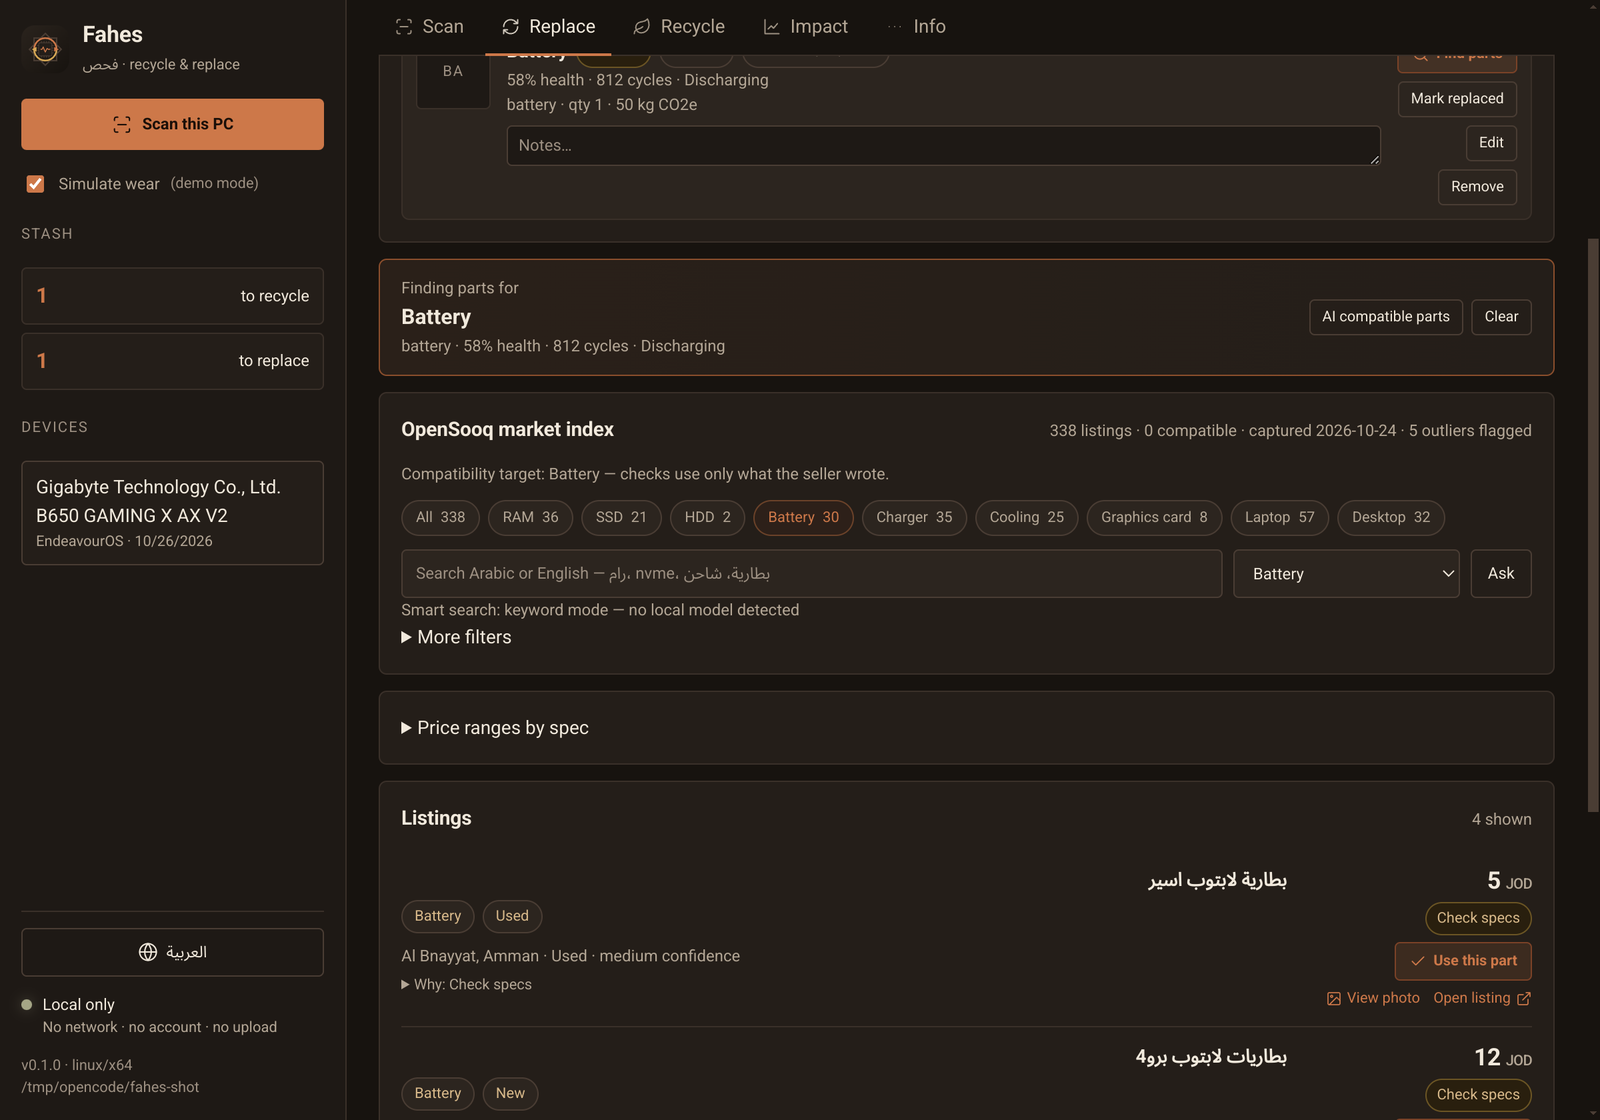
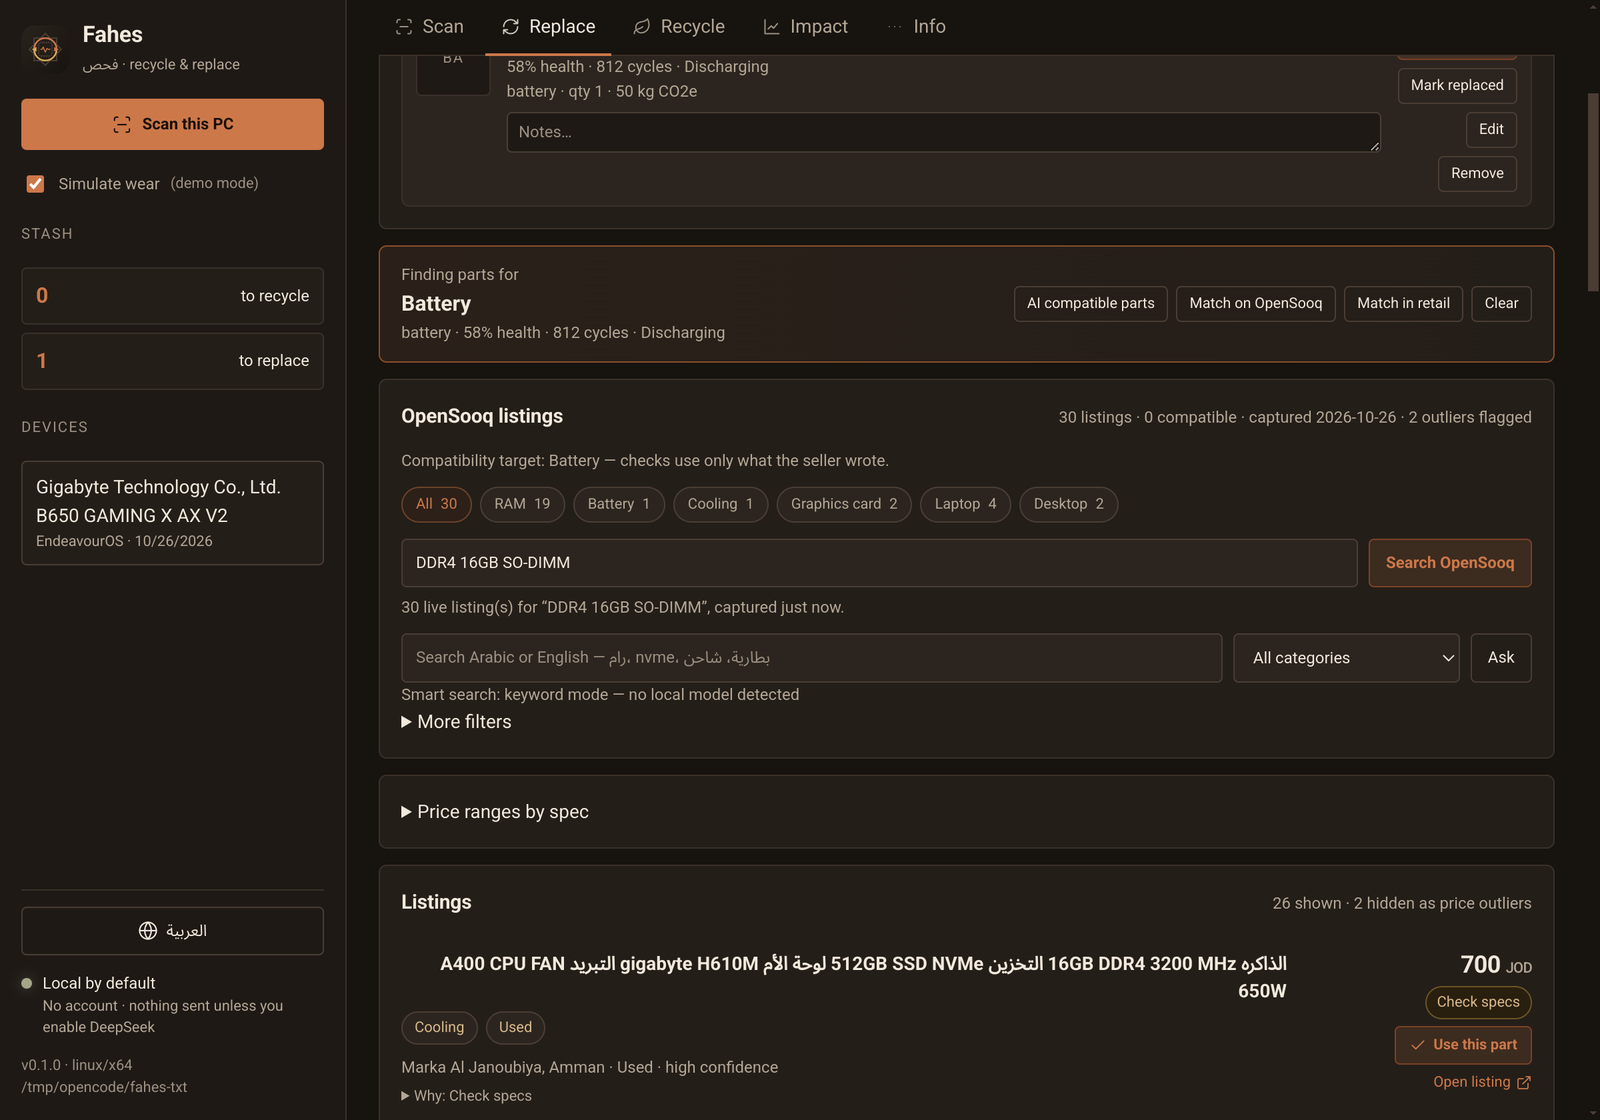
Docs and copy cleanup; reset filters on a live query
README: drop the Known limits section, condense the DeepSeek section,
and correct the parts that were stale now that Replace is live —
'338 real OpenSooq listings' read as a fixed set, and the privacy line
claimed nothing leaves the machine unconditionally.

UI copy: the Replace intro and the market card no longer describe a
fixed local index; both locales updated.

Live query now clears the previous search, category, condition and price
filters. A leftover category filter hid every result and made the search
look broken (searching 'DDR4 16GB SO-DIMM' with 'Battery' still selected
showed 0 of 30 listings).

Refreshed docs/replace-market.png.

diff --git a/ui/i18n.js b/ui/i18n.js
@@ -106,7 +106,7 @@
       "scan.manual": "Stash something manually",
       "scan.manualTitle": "What is it? e.g. old router, laptop battery",
       "replace.stash": "Replacement stash",
-      "replace.intro": "Everything you plan to replace. Pick an item, then let Fahes find compatible parts from the local OpenSooq index. AI only fills search filters; compatibility stays deterministic.",
+      "replace.intro": "Everything you plan to replace. Pick an item, then search OpenSooq live for the part you want, or browse the bundled index offline. Compatibility stays deterministic.",
       "replace.manualTitle": "Add a part or device to replace",
       "replace.add": "Add",
       "recycle.stash": "Recycle stash",
@@ -185,7 +185,7 @@
       "spec.none": "none reported",
       "spec.nothing": "Nothing to report.",
 
-      "market.title": "OpenSooq market index",
+      "market.title": "OpenSooq listings",
       "market.meta": "{count} listings · {compat} compatible · captured {date} · {outliers} outliers flagged",
       "market.compatTarget": "Compatibility target: {target} — checks use only what the seller wrote.",
       "market.noDevice": "No device selected; compatibility checks are unavailable until you run a check.",
@@ -477,7 +477,7 @@
       "scan.manual": "أضف عنصراً يدوياً",
       "scan.manualTitle": "ما هو؟ مثال: راوتر قديم، بطارية لابتوب",
       "replace.stash": "سلة الاستبدال",
-      "replace.intro": "كل ما تخطط لاستبداله. اختر عنصراً ودع فحص يجد القطع المتوافقة من فهرس السوق المحلي. الذكاء الاصطناعي يملأ المرشحات فقط، والتوافق يبقى محسوباً بشكل حتمي.",
+      "replace.intro": "كل ما تخطط لاستبداله. اختر عنصراً ثم ابحث في OpenSooq مباشرة عن القطعة، أو تصفّح الفهرس المخزّن دون اتصال. التوافق يبقى محسوباً بشكل حتمي.",
       "replace.manualTitle": "أضف قطعة أو جهازاً للاستبدال",
       "replace.add": "أضف",
       "recycle.stash": "سلة إعادة التدوير",
@@ -556,7 +556,7 @@
       "spec.none": "لا توجد",
       "spec.nothing": "لا شيء للإبلاغ.",
 
-      "market.title": "مؤشر سوق OpenSooq",
+      "market.title": "إعلانات OpenSooq",
       "market.meta": "{count} إعلاناً · {compat} متوافق · أُخذت في {date} · {outliers} مستبعدة كشواذ",
       "market.compatTarget": "هدف التوافق: {target} — الفحص يعتمد فقط على ما كتبه البائع.",
       "market.noDevice": "لا يوجد جهاز محدد؛ فحص التوافق يحتاج إلى تشغيل فحص أولاً.",

diff --git a/ui/app.js b/ui/app.js
@@ -887,6 +887,23 @@ async function runLiveQuery() {
   btn.disabled = true;
   btn.textContent = t("market.querying");
   if (note) note.textContent = "";
+
+  // A new live query is a new intent, so stale filters from the previous view
+  // are cleared. Otherwise a leftover category filter hides every result and
+  // the search looks broken.
+  const reset = [
+    ["#mSearch", ""],
+    ["#mCategory", "all"],
+    ["#mCondition", "all"],
+    ["#mMax", ""],
+  ];
+  for (const [sel, value] of reset) {
+    const el = $(sel);
+    if (el) el.value = value;
+  }
+  state.aiFilters = null;
+  state.aiEngine = null;
+
   try {
     const res = await call(api.searchMarket(term, marketTarget()));
     state.market = res.market;

diff --git a/README.md b/README.md
@@ -3,14 +3,15 @@
 **A Jordanian replace-and-recycle app for laptops, desktops and the devices around them.**
 
 Scan this PC, its removable drives, USB peripherals or the local network, then file each item under **Recycle** or
-**Replace**. Replacements are matched against real OpenSooq listings and Jordanian prices in JOD; recyclables become a
-photo-backed PDF manifest for a verified Amman e-waste partner.
+**Replace**. Replacements are searched live on OpenSooq and priced in JOD; recyclables become a photo-backed PDF
+manifest for a verified Amman e-waste partner.
 
 Built for the Jordanian market: local prices, local classifieds, local recyclers, Arabic RTL UI.
 
 > Scan it. Stash it. Replace what is worth keeping, recycle what is not.
 
-No account, no server, no upload — everything stays on the machine it runs on.
+No account and no server. Everything stays on the machine it runs on unless you switch on the optional DeepSeek
+matching described below.
 
 ![Scan and stash](docs/scan-stash.png)
 
@@ -39,8 +40,8 @@ reliability counters and thermal zones.
 | | |
 |---|---|
 | **Scan** | local hardware (battery, disks, SMART, RAM, thermals), removable/USB devices, private-LAN sweep |
-| **Replace** | compatible parts from 338 real OpenSooq listings, with city, price and compatibility badges |
-| **Recycle** | per-item photos, verified recycler, PDF handover manifest with mass/material estimates |
+| **Replace** | live OpenSooq search plus a bundled offline index, with city, price and compatibility badges |
+| **Recycle** | per-item photos and specs, verified recycler, PDF handover manifest |
 | **Impact** | diverted kilograms, avoided CO₂e and recovered materials per stash |
 | **Arabic** | full RTL layout, Arabic market parsing and search |
 | **Local AI** | optional Ollama model turns a sentence into filters — never into prices, specs or health scores |
@@ -50,23 +51,32 @@ reliability counters and thermal zones.
 ![Recycle stash and manifest](docs/recycle-stash.png)
 
 Add a photo to each item, pick a recycler, generate the manifest, then **Email recycler** opens your mail app with a
-ready message. The manifest includes a data-destruction warning and the exact wipe command for each detected drive
+ready message. Every item carries a weight, dimensions and recoverable materials, and the manifest prints them per
+item. It also includes a data-destruction warning and the exact wipe command for each detected drive
 (`nvme sanitize`, `hdparm security-erase`, `shred`).
 
 ### Replace
 
 ![Replacement target and market](docs/replace-market.png)
 
-Search in Arabic or English, filter by category, condition and price, and hide incompatible parts. Compatibility is
-derived from the detected machine (DDR generation, SO-DIMM/DIMM, NVMe/SATA) and is conservative: known mismatch is
-flagged, missing data says *check* rather than guessing.
+Type a part and search OpenSooq live — the query you enter is fetched and parsed on the spot, so a specific part is
+not limited to the bundled index. The bundled index stays for offline use, and if a live fetch returns nothing the
+stored listings remain and the note says which was used.
+
+Filter in Arabic or English, by category, condition and price, and hide incompatible parts. Compatibility is derived
+from the detected machine (DDR generation, SO-DIMM/DIMM, NVMe/SATA) and is conservative: a known mismatch is flagged,
+missing data says *check* rather than guessing.
+
+Retail price rows are dated snapshots from Jordanian vendors, each carrying its source and capture date. Those shops
+render their price grids client-side, so the app does not read a live price from them — instead every retail match
+links to the vendor's product page and to a live search for that exact part, so the current price is one click away.
 
 ## How it works
 
 ```
 Electron main (Node)                  Renderer (plain HTML/CSS/JS)
   lib/detect/  hardware + LAN scan      ui/  no frameworks
-  lib/market/  OpenSooq index           strict CSP, no network, no Node
+  lib/market/  OpenSooq index + live query    strict CSP
   lib/store.ts local JSON store
   lib/passport.ts signed second-life record
         ↕ IPC with contextIsolation
@@ -76,7 +86,8 @@ Design rules:
 
 1. **Deterministic data.** Prices, compatibility, mass and impact never come from a model.
 2. **No invented numbers.** Missing values are `unknown`; estimates are labelled and shown as ranges.
-3. **Local only.** No telemetry, accounts, update pings or remote assets.
+3. **Local by default.** No telemetry, accounts, update pings or remote assets. The one exception is the optional
+   DeepSeek matching, which is off until you turn it on.
 
 ## Data and privacy
 
@@ -84,55 +95,25 @@ Design rules:
 - Serials are hashed; delete the file to delete everything.
 - The renderer has no network or Node access.
 - The wipe record is an operator **attestation**, not cryptographic proof of erasure — the UI says so.
-- **Nothing leaves the machine unless you enable the optional DeepSeek matching** described below. There is no
-  telemetry, no account and no update ping.
+- **Nothing leaves the machine unless you enable the optional DeepSeek matching.**
 
 ## Optional: DeepSeek matching
 
-Off by default, and the app is fully functional without it. When you turn it on, Fahes sends the part name, category
-and detected specs to `api.deepseek.com` and asks it to pick from data already on your machine. Nothing else is sent,
-and the renderer keeps `connect-src 'none'`.
+Off by default, and the app works fully without it. When on, Fahes sends the part name, category and detected specs to
+`api.deepseek.com`; nothing else is sent and the renderer keeps `connect-src 'none'`. The key is stored through
+Electron's `safeStorage`, and the Info tab says whether it is really encrypted or only obfuscated (which is what
+happens on a Linux box with no keyring).
 
-Two things it does:
+It does two things: **matching** ranks a stashed item against the OpenSooq index or the retail price book, and
+**specs** fills in a recycle item's weight, dimensions and materials — automatically when you stash something, or via
+**Add specs**.
 
-- **Matching.** In the Replace tab, *Match on OpenSooq* or *Match in retail* ranks a stashed item against the local
-  listings or the price book. Retail matches also carry the vendor's product page and a live search link, so a dated
-  price is one click from being checked.
-- **Specs.** Every recycle item carries its own physical description — weight, dimensions and recoverable materials —
-  and it appears in the recycling manifest PDF alongside the item. Add one with **Add specs**, or let it fill in
-  automatically: with a key stored, stashing something for recycling pulls its specs in on its own.
+The model cannot invent a fact. Matching is a **closed set**: the main process builds a shortlist of real rows and the
+model may only return ids from it, with anything else counted and discarded. Prices are never requested. Specs are a
+labelled estimate shown beside the deterministic one, and marked "DeepSeek estimate — unverified" wherever they
+appear, including the manifest PDF.
 
-The integration is built so the model cannot invent a fact:
-
-- **Matching is a closed set.** The main process builds a numbered shortlist of real rows — OpenSooq listings or
-  price-book entries — and the model may only return ids from that shortlist. Anything else is counted and discarded
-  (the UI shows how many were dropped), so a hallucinated listing or price can never reach the screen.
-- **Prices are never requested.** They come from the rows we already hold.
-- **Specs are a labelled estimate.** Weight, dimensions and materials are stored on the item (`aiPhysical`) and shown
-  beside the deterministic estimate, never instead of it. Everywhere they appear — including the manifest PDF — they
-  carry a "DeepSeek estimate — unverified" label.
-- **Numbers are clamped.** An absurd weight, a negative material amount or an unrecognised confidence is corrected or
-  dropped before it is stored.
-
-`DEEPSEEK_BASE_URL` overrides the endpoint if you need to route through a proxy.
-
-### Live OpenSooq search
-
-The bundled index is a frozen capture, so a specific part is often missing from it. The Replace tab has a search box
-that queries OpenSooq for the term you actually typed, parses the results with the same pipeline as the snapshot, and
-folds them into the local index. If the fetch returns nothing — offline, blocked, or a term with no hits — the stored
-snapshot stays and the note says so.
-
-Jordanian retailers render their price grids client-side, so their pages cannot be read server-side (verified against
-GTS and Jumia). Retail therefore stays a dated, sourced price book, and every match links out to the vendor page and a
-live search instead of pretending to know today's price.
-
-The API key is stored through Electron's `safeStorage`. On a Linux box with no keyring that falls back to plaintext
-storage, and the Info tab says so rather than implying the key is encrypted.
-
-```bash
-npm run test:deepseek   # key round-trip, closed-set validation, aiPhysical layering (no network)
-```
+`DEEPSEEK_BASE_URL` overrides the endpoint for a proxy.
 
 ## Build
 
@@ -145,15 +126,13 @@ Tests and checks:
 
 ```bash
 npm run typecheck
-npm run test:scan    # hardware + demo scan, store/passport round-trip (no GUI)
-npm run test:stash   # stash, photo, manifest, ledger (no GUI)
+npm run test:scan       # hardware + demo scan, store/passport round-trip (no GUI)
+npm run test:stash      # stash, photo, manifest, ledger (no GUI)
+npm run test:market     # OpenSooq parsing and buckets (no network)
+npm run test:classify   # part-vs-machine classification cases (no network)
+npm run test:retail     # retail query shaping and click-through links (no network)
+npm run test:deepseek   # key round-trip, closed-set validation, spec layering (no network)
 ```
-
-## Known limits
-
-macOS is unsupported. Windows sensor coverage varies by vendor. Prices are dated snapshots and will go stale — every
-number ships with its source and capture date. The second-life passport proves the record was not altered, not that it
-is true.
 
 ## License
 
